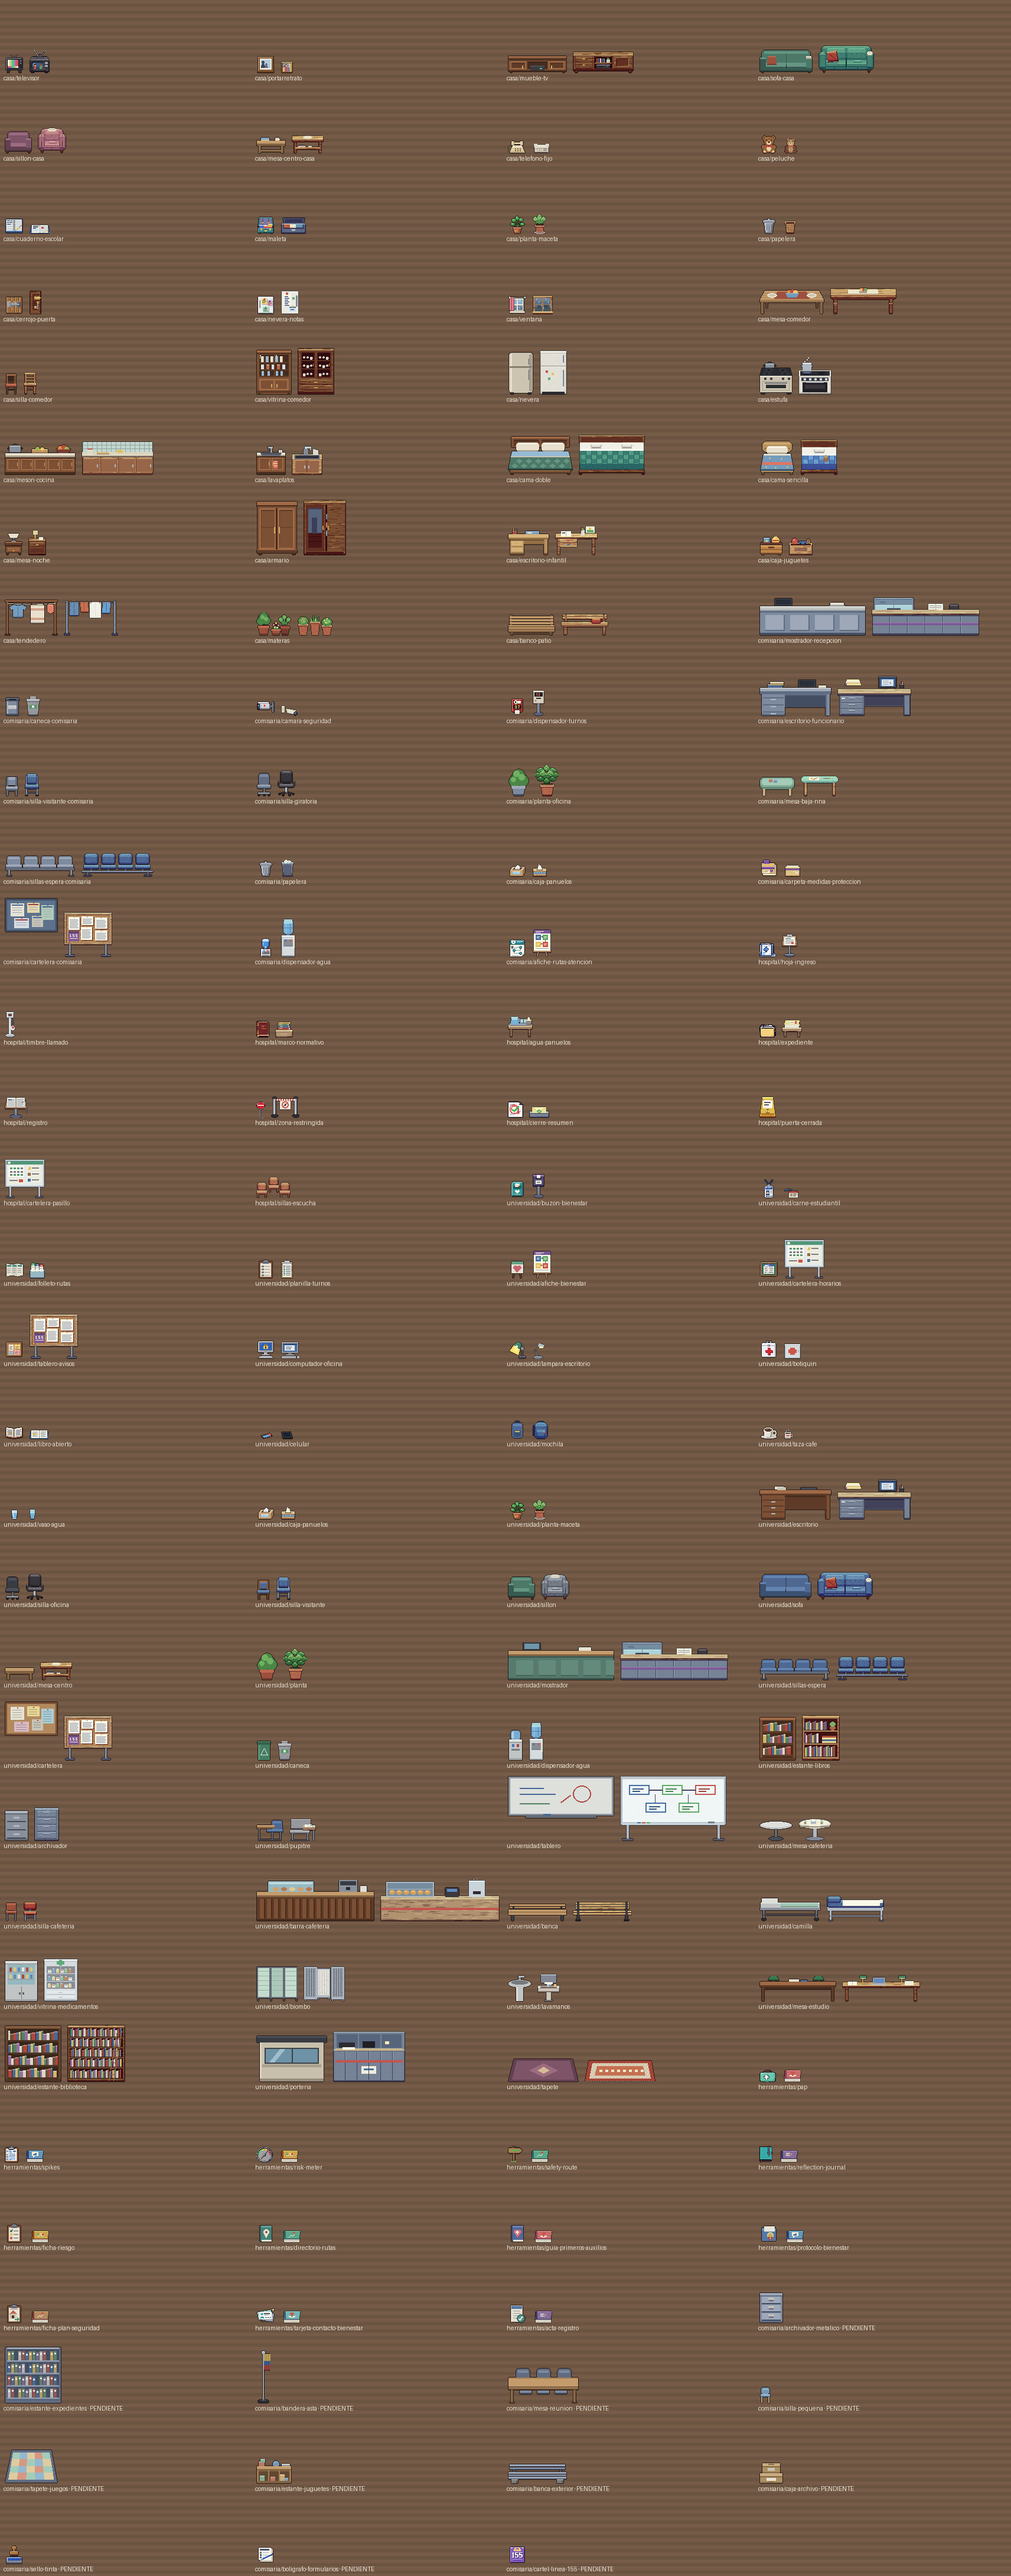
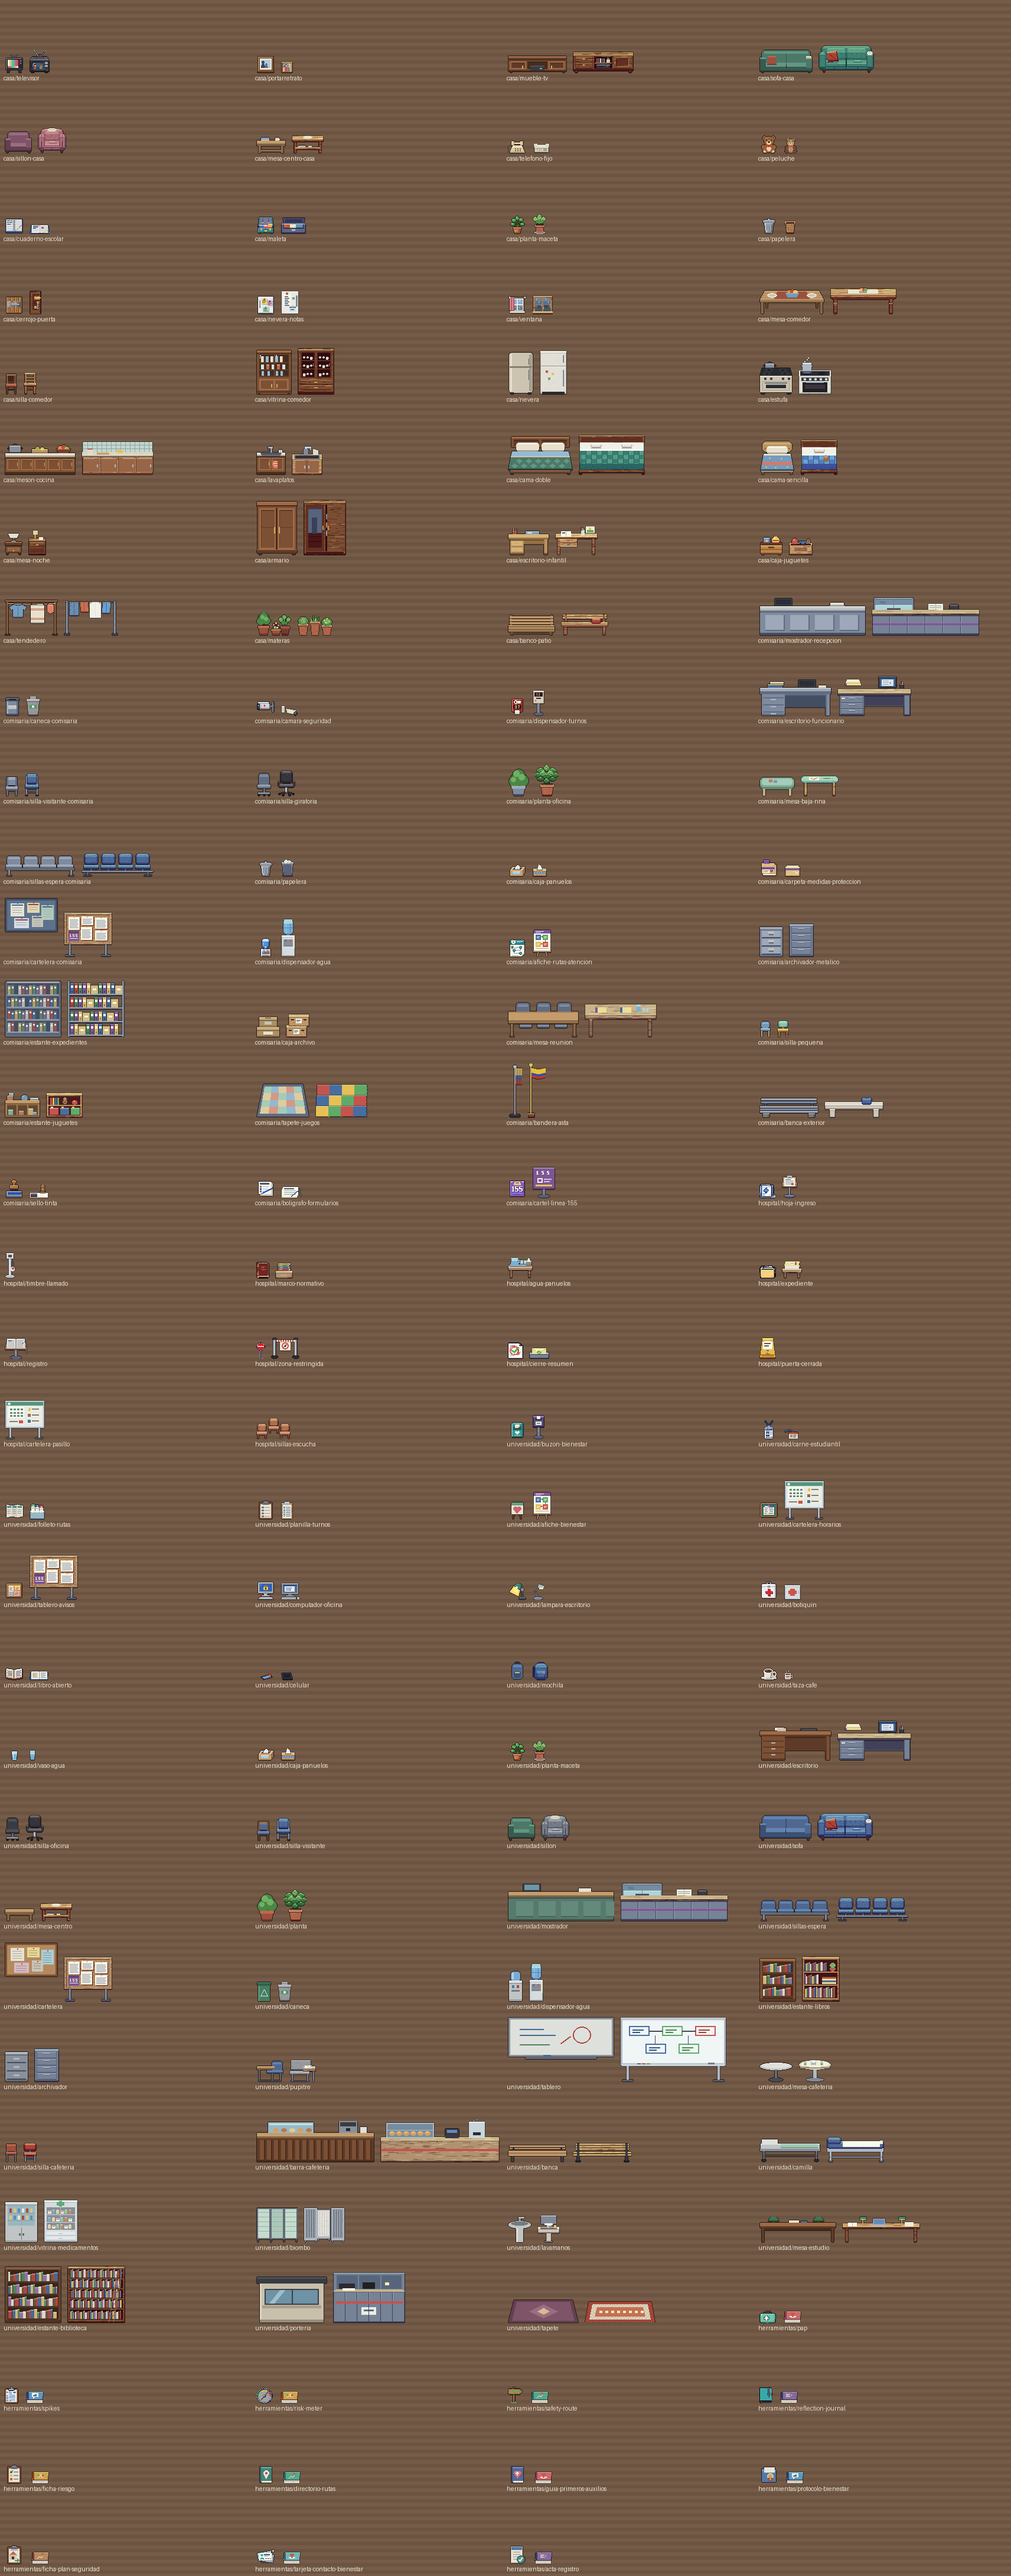
feat(objetos): comisaría, fachada, despacho y sala NNA (tapete de foamy, asta con bandera, banca de concreto, sello, formularios y cartel de la 155): la biblioteca completa

diff --git a/tools/escenarios/objetos_comisaria.py b/tools/escenarios/objetos_comisaria.py
@@ -529,6 +529,27 @@ PIEZAS.update({
     'estante-juguetes': dict(nombre='Estante de juguetes', tipo='mueble', dibujar=cc.estante_juguetes, cuadros=1,
                              huella=dict(ancho=58, fondo=12, alto=40), material='madera',
                              reemplaza=B + 'muebles/estante-juguetes.png'),
+    'tapete-juegos': dict(nombre='Tapete de juegos', tipo='mueble', dibujar=cc.tapete_juegos, cuadros=1,
+                          huella=dict(ancho=86, fondo=52, alto=2), material='foamy',
+                          reemplaza=B + 'muebles/tapete-juegos.png'),
+    'bandera-asta': dict(nombre='Asta con la bandera', tipo='mueble', dibujar=cc.bandera_asta, cuadros=3,
+                         huella=dict(ancho=10, fondo=6, alto=86), material='latón y tela',
+                         animaciones=dict(reposo=dict(de=0, hasta=2, fps=2, bucle=True)),
+                         reemplaza=B + 'muebles/bandera-asta.png'),
+    'banca-exterior': dict(nombre='Banca exterior', tipo='mueble', dibujar=cc.banca_exterior, cuadros=1,
+                           huella=dict(ancho=96, fondo=12, alto=30), material='concreto',
+                           reemplaza=B + 'muebles/banca-exterior.png'),
+    'sello-tinta': dict(nombre='Sello de la comisaría', tipo='objeto', dibujar=cc.sello_tinta, cuadros=4, sobre=24,
+                        huella=dict(ancho=28, fondo=8, alto=14), material='madera y tinta',
+                        animaciones=dict(reposo=dict(de=0, hasta=0, fps=1, bucle=True),
+                                         revisar=dict(de=1, hasta=3, fps=10, bucle=False, sostener=True)),
+                        reemplaza=B + 'objetos/sello-tinta.png'),
+    'boligrafo-formularios': dict(nombre='Formularios y bolígrafo', tipo='objeto', dibujar=cc.boligrafo_formularios, cuadros=1,
+                                  sobre=24, huella=dict(ancho=30, fondo=8, alto=8), material='papel',
+                                  reemplaza=B + 'objetos/boligrafo-formularios.png'),
+    'cartel-linea-155': dict(nombre='Cartel de la línea 155', tipo='objeto', dibujar=cc.cartel_155, cuadros=1,
+                             huella=dict(ancho=20, fondo=6, alto=48), material='cartel y acero',
+                             reemplaza=B + 'objetos/cartel-linea-155.png'),
 })
 
 
